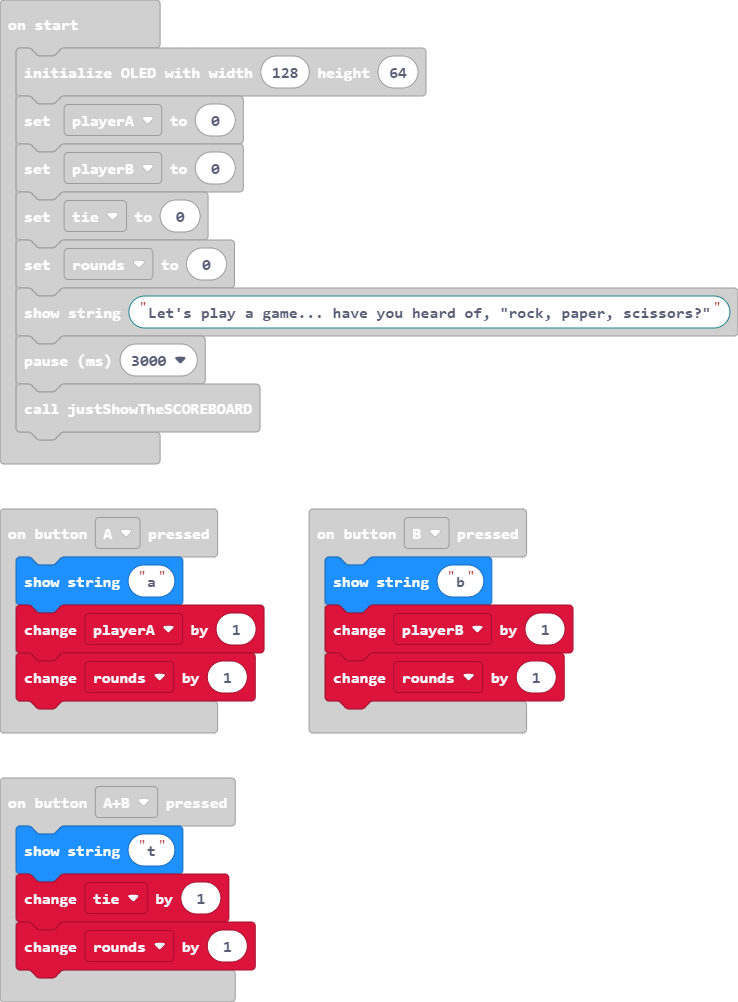
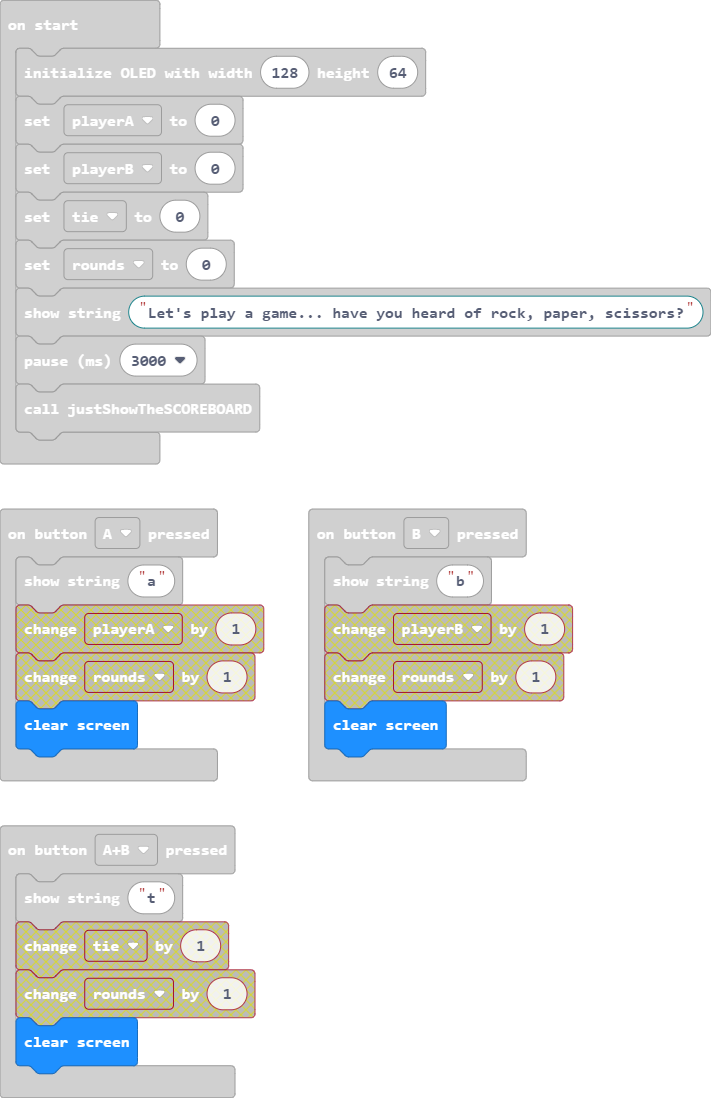
Update main.blocks, main.ts

Changed region(s): [[0.0, 0.0, 1.0, 1.0], [0.4023, 0.4641, 0.8045, 0.7425], [0.0619, 0.0, 0.0928, 0.0309]]

diff --git a/main.ts b/main.ts
@@ -1,17 +1,14 @@
 input.onButtonPressed(Button.A, function () {
     basic.showString("a")
-    playerA += 1
-    rounds += 1
+    basic.clearScreen()
 })
 input.onButtonPressed(Button.AB, function () {
     basic.showString("t")
-    tie += 1
-    rounds += 1
+    basic.clearScreen()
 })
 input.onButtonPressed(Button.B, function () {
     basic.showString("b")
-    playerB += 1
-    rounds += 1
+    basic.clearScreen()
 })
 input.onGesture(Gesture.Shake, function () {
 	
@@ -35,6 +32,6 @@ playerA = 0
 playerB = 0
 tie = 0
 rounds = 0
-OLED.writeStringNewLine("Let's play a game... have you heard of, \"rock, paper, scissors?\"")
+OLED.writeStringNewLine("Let's play a game... have you heard of rock, paper, scissors?")
 basic.pause(3000)
 justShowTheSCOREBOARD()
